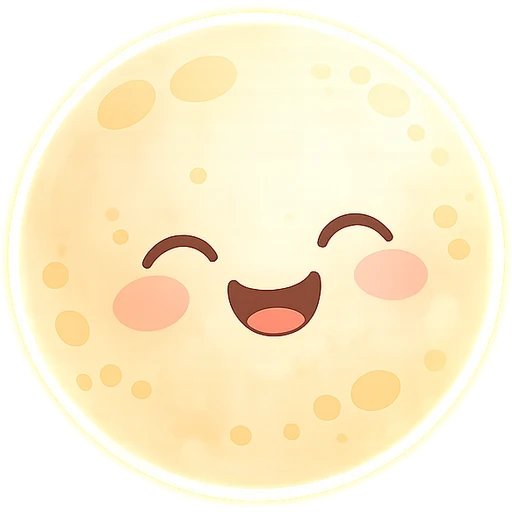
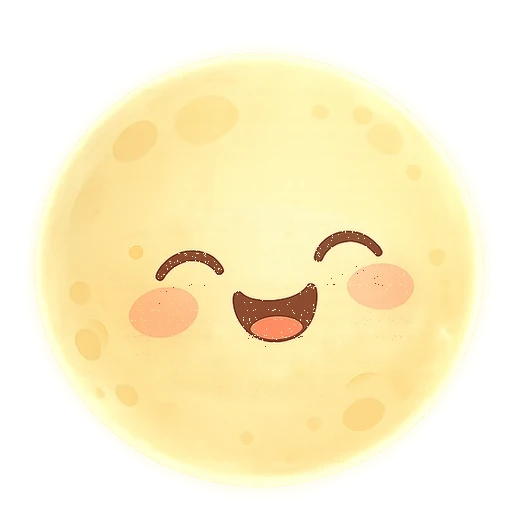
fix(home): calm the night sky -- no earth tint, no gold sparkles, a moon that only changes its face
The laughing moon was a different asset from the resting one: a larger,
whiter disc with a bright rim, so the cross-fade read as the moon growing
and glowing. The laughing frame is now the resting disc with only the
face swapped in, matched for colour, so just the expression changes, as
it does for the sun. Both faces also give a small three-degree giggle
sway while laughing instead of sitting still.

The night scrim over the earth is gone -- the art is never tinted -- and
the gold four-point sparkles are removed from the home star field, which
keeps its white twinkles and the occasional shooting star.

diff --git a/grow-with-freya/components/home/star-field.tsx b/grow-with-freya/components/home/star-field.tsx
@@ -10,8 +10,7 @@ import Animated, {
   cancelAnimation,
   Easing,
 } from 'react-native-reanimated';
-import Svg, { Polygon } from 'react-native-svg';
-import { SPARKLES, STAR_FIELD, buildStarField, type StarSeed } from '@/constants/night-sky';
+import { STAR_FIELD, buildStarField, type StarSeed } from '@/constants/night-sky';
 import { useReducedMotion } from '@/hooks/use-reduced-motion';
 
 interface TwinklingStarProps {
@@ -76,71 +75,11 @@ const TwinklingStar = memo(function TwinklingStar({
   );
 });
 
-interface SparkleProps {
-  x: number;
-  y: number;
-  size: number;
-  colour: string;
-  intensity: number;
-  animated: boolean;
-  index: number;
-}
-
-const Sparkle = memo(function Sparkle({
-  x,
-  y,
-  size,
-  colour,
-  intensity,
-  animated,
-  index,
-}: SparkleProps) {
-  const glow = useSharedValue(1);
-
-  useEffect(() => {
-    if (!animated) {
-      cancelAnimation(glow);
-      glow.value = 1;
-      return;
-    }
-
-    const duration = 3200 + index * 480;
-
-    glow.value = withDelay(
-      index * 720,
-      withRepeat(
-        withSequence(
-          withTiming(0.45, { duration, easing: Easing.inOut(Easing.sin) }),
-          withTiming(1, { duration, easing: Easing.inOut(Easing.sin) })
-        ),
-        -1,
-        false
-      )
-    );
-
-    return () => {
-      cancelAnimation(glow);
-    };
-  }, [animated, glow, index]);
-
-  const style = useAnimatedStyle(() => ({ opacity: intensity * glow.value }));
-  const points = `${size},0 ${size * 1.18},${size * 0.82} ${size * 2},${size} ${size * 1.18},${size * 1.18} ${size},${size * 2} ${size * 0.82},${size * 1.18} 0,${size} ${size * 0.82},${size * 0.82}`;
-
-  return (
-    <Animated.View style={[styles.sparkle, { left: x, top: y }, style]}>
-      <Svg width={size * 2} height={size * 2}>
-        <Polygon points={points} fill={colour} />
-      </Svg>
-    </Animated.View>
-  );
-});
-
 export interface StarFieldProps {
   active?: boolean;
   width: number;
   height: number;
   colour: string;
-  sparkleColour: string;
   intensity: number;
   testID?: string;
 }
@@ -150,7 +89,6 @@ export const StarField = memo(function StarField({
   width,
   height,
   colour,
-  sparkleColour,
   intensity,
   testID = 'star-field',
 }: StarFieldProps) {
@@ -172,28 +110,12 @@ export const StarField = memo(function StarField({
           animated={!reduceMotion && active}
         />
       ))}
-
-      {SPARKLES.map((sparkle, index) => (
-        <Sparkle
-          key={`sparkle-${index}`}
-          x={sparkle.xRatio * width}
-          y={sparkle.yRatio * height}
-          size={sparkle.size}
-          colour={sparkleColour}
-          intensity={intensity}
-          animated={!reduceMotion && active}
-          index={index}
-        />
-      ))}
     </View>
   );
 });
 
 const styles = StyleSheet.create({
   star: {
-    position: 'absolute',
-  },
-  sparkle: {
     position: 'absolute',
   },
 });

diff --git a/grow-with-freya/components/home/sky-face.tsx b/grow-with-freya/components/home/sky-face.tsx
@@ -1,7 +1,13 @@
 import React, { memo, useEffect } from 'react';
-import { View, StyleSheet } from 'react-native';
+import { StyleSheet } from 'react-native';
 import { Image } from 'expo-image';
-import Animated, { useSharedValue, useAnimatedStyle, withTiming, Easing } from 'react-native-reanimated';
+import Animated, {
+  useSharedValue,
+  useAnimatedStyle,
+  withSequence,
+  withTiming,
+  Easing,
+} from 'react-native-reanimated';
 import { useTranslation } from 'react-i18next';
 import { SKY_FACE_RHYTHM } from '@/constants/sky-face';
 import type { TimeOfDay } from '@/constants/home-scene';
@@ -36,25 +42,43 @@ export const SkyFace = memo(function SkyFace({
   const { t } = useTranslation();
   const expression = useSkyFace({ enabled: animated });
   const laughOpacity = useSharedValue(0);
+  const giggle = useSharedValue(0);
 
   useEffect(() => {
-    laughOpacity.value = withTiming(expression === 'laughing' ? 1 : 0, {
+    const laughing = expression === 'laughing';
+    laughOpacity.value = withTiming(laughing ? 1 : 0, {
       duration: SKY_FACE_RHYTHM.crossFadeMs,
       easing: Easing.inOut(Easing.quad),
     });
-  }, [expression, laughOpacity]);
+    if (!laughing) {
+      giggle.value = withTiming(0, { duration: SKY_FACE_RHYTHM.crossFadeMs, easing: Easing.out(Easing.quad) });
+      return;
+    }
+    const beat = SKY_FACE_RHYTHM.laughMs / 5;
+    const sway = Easing.inOut(Easing.sin);
+    giggle.value = withSequence(
+      withTiming(1, { duration: beat, easing: sway }),
+      withTiming(-1, { duration: beat, easing: sway }),
+      withTiming(0.6, { duration: beat, easing: sway }),
+      withTiming(-0.4, { duration: beat, easing: sway }),
+      withTiming(0, { duration: beat, easing: sway })
+    );
+  }, [expression, laughOpacity, giggle]);
 
   const laughStyle = useAnimatedStyle(() => ({ opacity: laughOpacity.value }));
+  const giggleStyle = useAnimatedStyle(() => ({
+    transform: [{ rotate: `${giggle.value * SKY_FACE_RHYTHM.giggleDegrees}deg` }],
+  }));
 
   const art = SKY_FACE_ART[timeOfDay];
   const dimensions = { width: size, height: size };
 
   return (
-    <View
+    <Animated.View
       testID={testID}
       accessibilityRole="image"
       accessibilityLabel={t(timeOfDay === 'day' ? 'home.sun' : 'home.moon')}
-      style={dimensions}
+      style={[dimensions, giggleStyle]}
     >
       <Image
         testID="sky-face-resting"
@@ -71,7 +95,7 @@ export const SkyFace = memo(function SkyFace({
         contentFit="contain"
         transition={0}
       />
-    </View>
+    </Animated.View>
   );
 });
 

diff --git a/grow-with-freya/__tests__/components/ui/earth-horizon.test.tsx b/grow-with-freya/__tests__/components/ui/earth-horizon.test.tsx
@@ -3,7 +3,7 @@
  *
  * The same globe rises from the bottom of the home page and hangs from the
  * top of the pages beneath it, clipped to a window so nothing spills over the
- * page while the two slide past each other.
+ * page while the two slide past each other. The art is never tinted.
  */
 
 import React from 'react';
@@ -73,25 +73,6 @@ describe('EarthHorizon', () => {
     const underTest = byTestId(view, 'earth-horizon')[0].props.pointerEvents;
 
     expect(underTest).toBe('none');
-  });
-
-  it('should show no scrim unless asked', () => {
-    const view = renderEarth();
-
-    const underTest = byTestId(view, 'earth-horizon-scrim');
-
-    expect(underTest).toHaveLength(0);
-  });
-
-  it('should lay a round scrim over the globe when given one', () => {
-    const view = renderEarth({ scrim: 'rgba(11,21,51,0.34)' });
-    const layout = earthLayout(WIDTH, HEIGHT, 'bottom');
-
-    const underTest = flatStyle(view, 'earth-horizon-scrim');
-
-    expect(underTest.backgroundColor).toBe('rgba(11,21,51,0.34)');
-    expect(underTest.borderRadius).toBe(layout.diameter / 2);
-    expect(underTest.width).toBe(layout.diameter);
   });
 
   it('should fall back to the window when no size is given', () => {

diff --git a/grow-with-freya/__tests__/components/home/sky-face.test.tsx b/grow-with-freya/__tests__/components/home/sky-face.test.tsx
@@ -2,10 +2,12 @@
  * Tests for the face in the sky.
  *
  * Day brings the sun, night brings the moon, and both wear a resting smile with
- * a laughing frame stacked over it that fades in and out.
+ * a laughing frame stacked over it that fades in and out while the whole face
+ * gives a small giggle.
  */
 
 import React from 'react';
+import { StyleSheet } from 'react-native';
 import { render, type RenderResult } from '@testing-library/react-native';
 import { SkyFace } from '@/components/home/sky-face';
 
@@ -45,6 +47,6 @@ describe('SkyFace', () => {
 
     const underTest = byTestId(view, 'sky-face')[0];
 
-    expect(underTest.props.style).toEqual(expect.objectContaining({ width: 96, height: 96 }));
+    expect(StyleSheet.flatten(underTest.props.style)).toEqual(expect.objectContaining({ width: 96, height: 96 }));
   });
 });

diff --git a/grow-with-freya/components/ui/earth-horizon.tsx b/grow-with-freya/components/ui/earth-horizon.tsx
@@ -9,7 +9,6 @@ export interface EarthHorizonProps {
   edge: EarthEdge;
   width?: number;
   height?: number;
-  scrim?: string;
   testID?: string;
 }
 
@@ -17,7 +16,6 @@ export const EarthHorizon = memo(function EarthHorizon({
   edge,
   width: widthProp,
   height: heightProp,
-  scrim,
   testID = 'earth-horizon',
 }: EarthHorizonProps) {
   const window = useWindowDimensions();
@@ -45,7 +43,6 @@ export const EarthHorizon = memo(function EarthHorizon({
         contentFit="contain"
         transition={0}
       />
-      {scrim ? <View testID={`${testID}-scrim`} style={[styles.globe, globe, { backgroundColor: scrim }]} /> : null}
     </View>
   );
 });

diff --git a/grow-with-freya/constants/home-scene.ts b/grow-with-freya/constants/home-scene.ts
@@ -82,7 +82,6 @@ export interface HomeTheme {
   chromeInk: string;
   artScrim: string;
   cloudOpacity: string;
-  earthScrim: string;
 }
 
 export const HOME_THEMES = {
@@ -122,7 +121,6 @@ export const HOME_THEMES = {
     chromeInk: '#FFFFFF',
     artScrim: 'rgba(10,21,51,0.26)',
     cloudOpacity: '0.62',
-    earthScrim: 'rgba(11,21,51,0.34)',
   },
   day: {
     skyTop: NIGHT_DEEP,
@@ -160,7 +158,6 @@ export const HOME_THEMES = {
     chromeInk: '#FFFFFF',
     artScrim: 'rgba(20,44,94,0.16)',
     cloudOpacity: '0.78',
-    earthScrim: 'rgba(34,64,111,0.06)',
   },
 } as const satisfies Record<TimeOfDay, HomeTheme>;
 

diff --git a/grow-with-freya/components/home/night-sky.tsx b/grow-with-freya/components/home/night-sky.tsx
@@ -49,7 +49,6 @@ export const NightSky = memo(function NightSky({
         width={width}
         height={height}
         colour={theme.star}
-        sparkleColour={theme.ribbonStar}
         intensity={starIntensity}
         active={settled}
       />
@@ -79,13 +78,7 @@ export const NightSky = memo(function NightSky({
         />
       </View>
 
-      <EarthHorizon
-        testID="home-horizon"
-        edge="bottom"
-        width={width}
-        height={height}
-        scrim={theme.earthScrim}
-      />
+      <EarthHorizon testID="home-horizon" edge="bottom" width={width} height={height} />
     </View>
   );
 });

diff --git a/grow-with-freya/constants/night-sky.ts b/grow-with-freya/constants/night-sky.ts
@@ -14,15 +14,6 @@ export const STAR_FIELD = {
   twinkleFloor: 0.42,
 } as const;
 
-export const SPARKLES = [
-  { xRatio: 0.09, yRatio: 0.19, size: 15 },
-  { xRatio: 0.83, yRatio: 0.12, size: 11 },
-  { xRatio: 0.93, yRatio: 0.24, size: 14 },
-  { xRatio: 0.18, yRatio: 0.31, size: 10 },
-  { xRatio: 0.71, yRatio: 0.29, size: 13 },
-  { xRatio: 0.35, yRatio: 0.09, size: 9 },
-] as const;
-
 export const SHOOTING_STAR = {
   restMinMs: 26000,
   restMaxMs: 62000,

diff --git a/grow-with-freya/__tests__/constants/sky-face.test.ts b/grow-with-freya/__tests__/constants/sky-face.test.ts
@@ -64,3 +64,12 @@ describe('laughsPerMinute', () => {
     expect(underTest).toBeLessThan(0.06);
   });
 });
+
+describe('giggle', () => {
+  it('should sway the face gently rather than shake it', () => {
+    const underTest = SKY_FACE_RHYTHM.giggleDegrees;
+
+    expect(underTest).toBeGreaterThan(0);
+    expect(underTest).toBeLessThanOrEqual(4);
+  });
+});

diff --git a/grow-with-freya/constants/sky-face.ts b/grow-with-freya/constants/sky-face.ts
@@ -6,6 +6,7 @@ export const SKY_FACE_RHYTHM = {
   laughMs: 1400,
   crossFadeMs: 260,
   firstRestMinMs: 8000,
+  giggleDegrees: 3,
 } as const;
 
 export function nextRestDelay(roll: number, isFirst = false): number {
